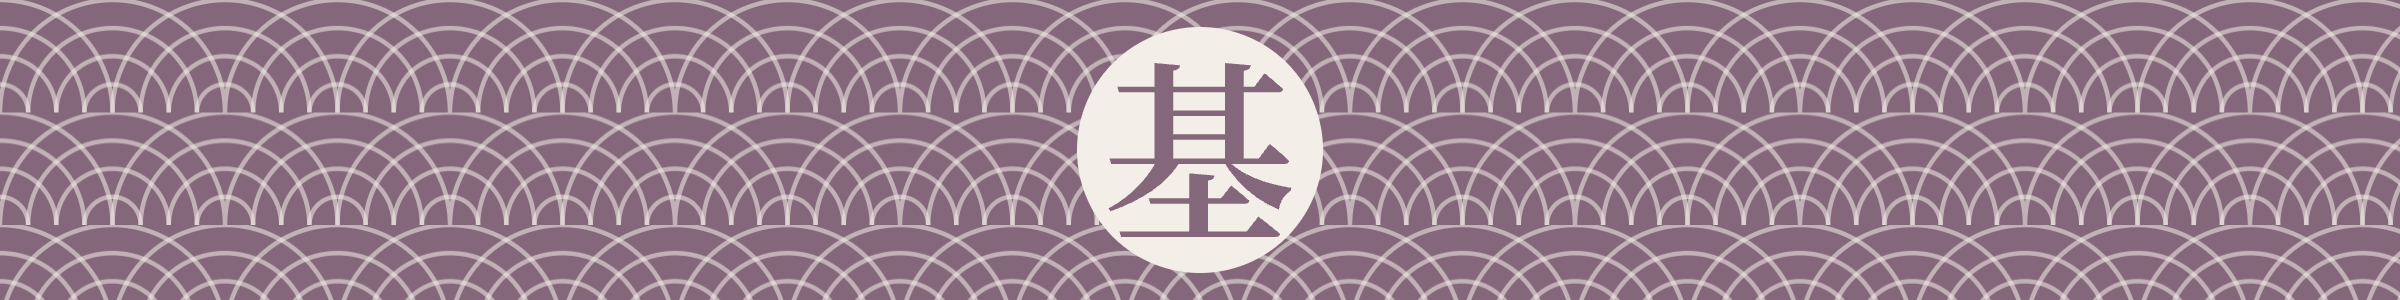
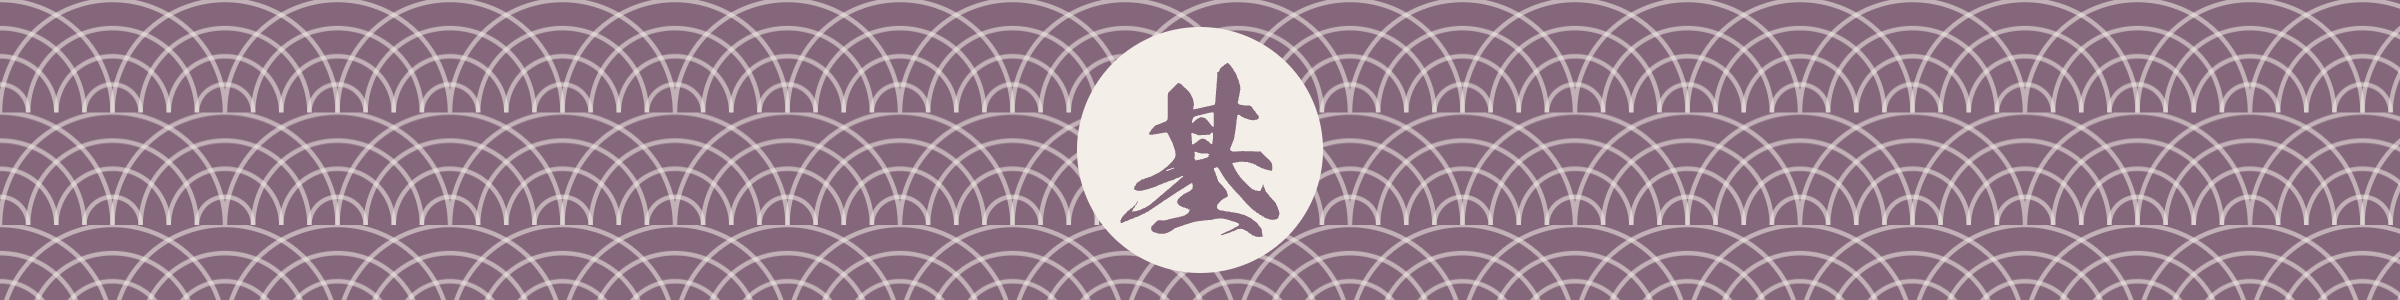
Use KokuryuSou (Adobe brush face) for the cover + chapter-art kanji
The 道/愛/… kanji in the cover and the chapter/front-matter banners now render
in KokuryuSou (Adobe Fonts, Adobe-Japan1-4 brush display) instead of Noto Serif
JP, for a calligraphic dragon-brush look. Body and heading text stay Noto Serif
/ Raleway.

- Regenerated images/chapter-art/*.svg+png via gen_chapter_art.py; re-outlined
  cover.svg's 道 + 愛 into the same on-canvas boxes and re-rasterised cover.png.
- KokuryuSou is licensed and NOT in the repo (activate in Creative Cloud to
  regenerate); the committed outlined SVGs + PNGs are distributable, and CI uses
  those (build_site copies them in), so no font is needed at deploy time.
- Documented the font + activation in the book-build SKILL.md and the README
  (also folded in the earlier 'where things live / how to build' README update).

Changed region(s): [[0.4688, 0.21, 0.5625, 0.81]]

diff --git a/README.md b/README.md
@@ -67,14 +67,57 @@ A work in progress. The preface is complete; Chapters 1–3 are drafted and bein
 | Chapters 4–6 | Work in progress |
 
 <details>
-<summary>For contributors — conventions &amp; tooling</summary>
+<summary>For contributors — layout, editing, &amp; build</summary>
 
-Authoring conventions live in `AGENTS.md`; the highlights:
+**Everything you edit lives outside `quarto/`.** `quarto/` is the publishing
+pipeline only (Quarto config, Typst/SCSS/CSS templates, fonts). The build
+generates the rest into it — all git-ignored.
+
+| Edit this | For |
+| --- | --- |
+| `book/*.md` | chapter text (`00-preface` … `06-mastery`) |
+| `book/blurb.md` | the back-cover / "why read it" blurb (frontmatter `description:` + lead, `- **Label** — text.` bullets, close) |
+| `book/epigraph.md` | the landing-page teaser |
+| `theme.yml` (repo root) | **all design tokens** — palette, colour roles, type sizes, fonts, per-chapter accents |
+| `images/cover.svg` | the cover art |
+| `images/chapter-art/` | the chapter banners (generated; see below) |
+
+**Common edits**
+
+- **Change copy** → edit `book/*.md`, `book/blurb.md`, or `book/epigraph.md`.
+- **Restyle (colours, fonts, sizes)** → edit `theme.yml`. Change a value there and
+  it flows to the website, PDF, and ePub — nowhere else to touch.
+- **Change the cover** → edit `images/cover.svg`, then re-rasterise:
+  ```bash
+  "/Applications/Google Chrome.app/Contents/MacOS/Google Chrome" --headless \
+    --screenshot=images/cover.png --window-size=1600,2400 \
+    --force-device-scale-factor=1 --hide-scrollbars "file://$PWD/images/cover.svg"
+  ```
+- **Regenerate chapter art / cover kanji** → the 道/愛/… kanji use **KokuryuSou**,
+  an Adobe Fonts brush face. It's licensed (not in the repo): **activate it in
+  Creative Cloud** (Creative Cloud app → Fonts → search *Kokuryu* → Activate; or
+  toggle it on at <https://fonts.adobe.com/fonts/kokuryu>). Find its file with
+  `system_profiler SPFontsDataType | grep -B2 -i kokuryu`, then (needs
+  `fonttools`; run `gen_theme.py` first so accents are current):
+  ```bash
+  python3 .claude/skills/book-build/scripts/gen_chapter_art.py \
+    --font "$KOKURYU_OTF" --out images/chapter-art --png
+  ```
+  The committed SVG/PNG art is distributable; the font file is not. Body and
+  heading text use the open-licensed Noto Serif / Raleway (in `quarto/fonts/`).
+
+**Build & deploy** — one Quarto pipeline → website + PDF + ePub. Locally:
+`cd quarto && ./build.sh` (or `./build.sh preview`). It runs, in order,
+`gen_theme.py` (tokens from `theme.yml`) → `build_site.py` (chapters from
+`book/`, and copies art in from `images/`) → `gen_blurb.py` (blurb + epigraph) →
+`quarto render`. On push to `main`, `.github/workflows/deploy.yml` does the same
+and deploys to GitHub Pages. Full detail is in the `book-build` skill.
+
+**Authoring conventions** (also in `AGENTS.md`):
 
 - **Prose style** — modelled on Kernighan & Pike's *The Unix Programming Environment*: plain short sentences, mechanism over metaphor, understatement, worked examples (a copy is at `research/the-unix-programming-environment-kernighan-pike.md`).
 - **Numbered headings** — H2 sections `N.M`, H3 subsections `N.M.K`; chapter titles and References stay unnumbered.
-- **Citations (APA 7)** — hyperlinked to the original source (URL, DOI, arXiv); first mention in a chapter names author and *title*, later mentions are plain `(Author, Year)`. Source metadata lives in `research/papers/`.
+- **Citations (APA 7)** — hyperlinked to the original source (URL, DOI, arXiv); first mention in a chapter names author and *title*, later mentions are plain `(Author, Year)`. Source metadata lives in `research/papers/`; the reference lists regenerate via the `apa-citations` skill.
 - **Skills & agents** — kept in both Copilot (`.github/`) and Claude (`.claude/`) formats and maintained in sync.
-- **Build & publish** — one Quarto pipeline turns `book/*.md` into the website + PDF + ePub. Locally: `cd quarto && ./build.sh` (or `./build.sh preview`); it regenerates the chapters via `.claude/skills/book-build/scripts/build_site.py`, then `quarto render`. On push to `main`, `.github/workflows/deploy.yml` builds and deploys to GitHub Pages. See the `book-build` skill for details.
 
 </details>

diff --git a/.claude/skills/book-build/SKILL.md b/.claude/skills/book-build/SKILL.md
@@ -85,7 +85,11 @@ using `var(--r-*)`.
 ## Cover
 
 Source of truth is **`images/cover.svg`** (self-contained: outlined glyph paths
-+ a vector seigaiha pattern). Rasterise to `images/cover.png` (1600×2400) with
++ a vector seigaiha pattern). The 道 / 愛 kanji are outlined from **KokuryuSou**
+(Adobe brush face — see *Chapter art* for the licence/activation note); the
+"AI" letters are outlined Raleway. To re-swap the kanji font, re-outline them
+into the same on-canvas boxes and rewrite `cover.svg`. Rasterise to
+`images/cover.png` (1600×2400) with
 headless Chrome; the build copies `cover.png` into `quarto/` and wires it via
 `book: cover-image` (+ `typst-show.typ` for the PDF full-bleed cover):
 
@@ -106,14 +110,19 @@ the PNGs into `quarto/chapter-art/` and injects the banner under each title.
 - Colours come from `theme.yml` via `_tokens.json` (`chapter-accents` +
   `front-matter-accent`); the slug→kanji map is content in the script.
 - Kanji glyphs are **outlined** into self-contained SVG paths (no font dependency
-  in the output) with **fontTools**, from the full **Noto Serif JP** variable
-  font (the bundled `quarto/fonts` subset only has 愛/道 — download the full font
-  once; see the script header).
-- Regenerate (run `gen_theme.py` first so `_tokens.json` exists):
+  in the *output*) with **fontTools**, from **KokuryuSou** — a Japanese brush
+  display face from **Adobe Fonts** (`KsoKokuryuSou`, Adobe-Japan1-4). It's
+  licensed, so it isn't in the repo: **activate it in Creative Cloud** (see the
+  README), which installs it under `~/Library/Application Support/Adobe/CoreSync/
+  plugins/livetype/.r/` with a hashed filename. Outlined artwork and the
+  rasterised PNGs are distributable under the Adobe desktop licence; the font
+  file is not. (Body/heading text still uses Noto Serif / Raleway.)
+- Regenerate (run `gen_theme.py` first so `_tokens.json` exists; find the font
+  path via `system_profiler SPFontsDataType | grep -B2 -i kokuryu`):
 
 ```bash
 python3 .claude/skills/book-build/scripts/gen_chapter_art.py \
-  --font NotoSerifJP.ttf --out images/chapter-art --png
+  --font "$KOKURYU_OTF" --out images/chapter-art --png
 ```
 
 ## Back cover & epigraph

diff --git a/.github/skills/book-build/SKILL.md b/.github/skills/book-build/SKILL.md
@@ -85,7 +85,11 @@ using `var(--r-*)`.
 ## Cover
 
 Source of truth is **`images/cover.svg`** (self-contained: outlined glyph paths
-+ a vector seigaiha pattern). Rasterise to `images/cover.png` (1600×2400) with
++ a vector seigaiha pattern). The 道 / 愛 kanji are outlined from **KokuryuSou**
+(Adobe brush face — see *Chapter art* for the licence/activation note); the
+"AI" letters are outlined Raleway. To re-swap the kanji font, re-outline them
+into the same on-canvas boxes and rewrite `cover.svg`. Rasterise to
+`images/cover.png` (1600×2400) with
 headless Chrome; the build copies `cover.png` into `quarto/` and wires it via
 `book: cover-image` (+ `typst-show.typ` for the PDF full-bleed cover):
 
@@ -106,14 +110,19 @@ the PNGs into `quarto/chapter-art/` and injects the banner under each title.
 - Colours come from `theme.yml` via `_tokens.json` (`chapter-accents` +
   `front-matter-accent`); the slug→kanji map is content in the script.
 - Kanji glyphs are **outlined** into self-contained SVG paths (no font dependency
-  in the output) with **fontTools**, from the full **Noto Serif JP** variable
-  font (the bundled `quarto/fonts` subset only has 愛/道 — download the full font
-  once; see the script header).
-- Regenerate (run `gen_theme.py` first so `_tokens.json` exists):
+  in the *output*) with **fontTools**, from **KokuryuSou** — a Japanese brush
+  display face from **Adobe Fonts** (`KsoKokuryuSou`, Adobe-Japan1-4). It's
+  licensed, so it isn't in the repo: **activate it in Creative Cloud** (see the
+  README), which installs it under `~/Library/Application Support/Adobe/CoreSync/
+  plugins/livetype/.r/` with a hashed filename. Outlined artwork and the
+  rasterised PNGs are distributable under the Adobe desktop licence; the font
+  file is not. (Body/heading text still uses Noto Serif / Raleway.)
+- Regenerate (run `gen_theme.py` first so `_tokens.json` exists; find the font
+  path via `system_profiler SPFontsDataType | grep -B2 -i kokuryu`):
 
 ```bash
 python3 .claude/skills/book-build/scripts/gen_chapter_art.py \
-  --font NotoSerifJP.ttf --out images/chapter-art --png
+  --font "$KOKURYU_OTF" --out images/chapter-art --png
 ```
 
 ## Back cover & epigraph
